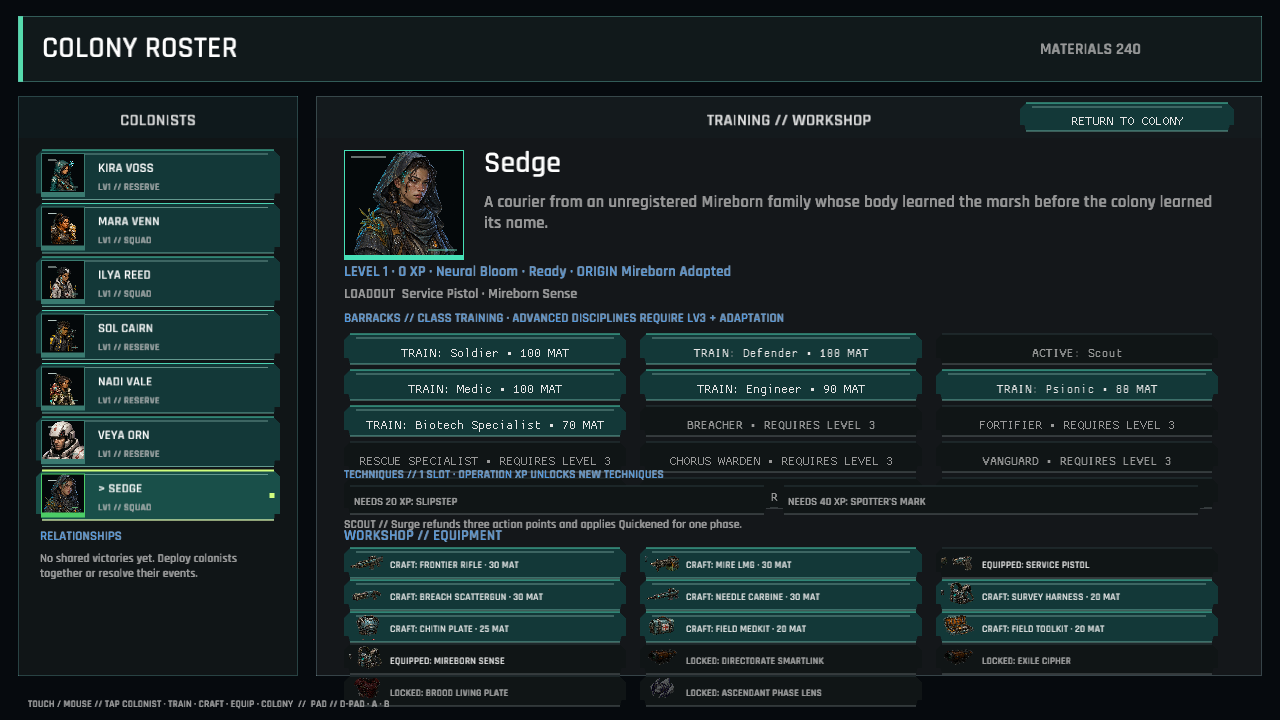
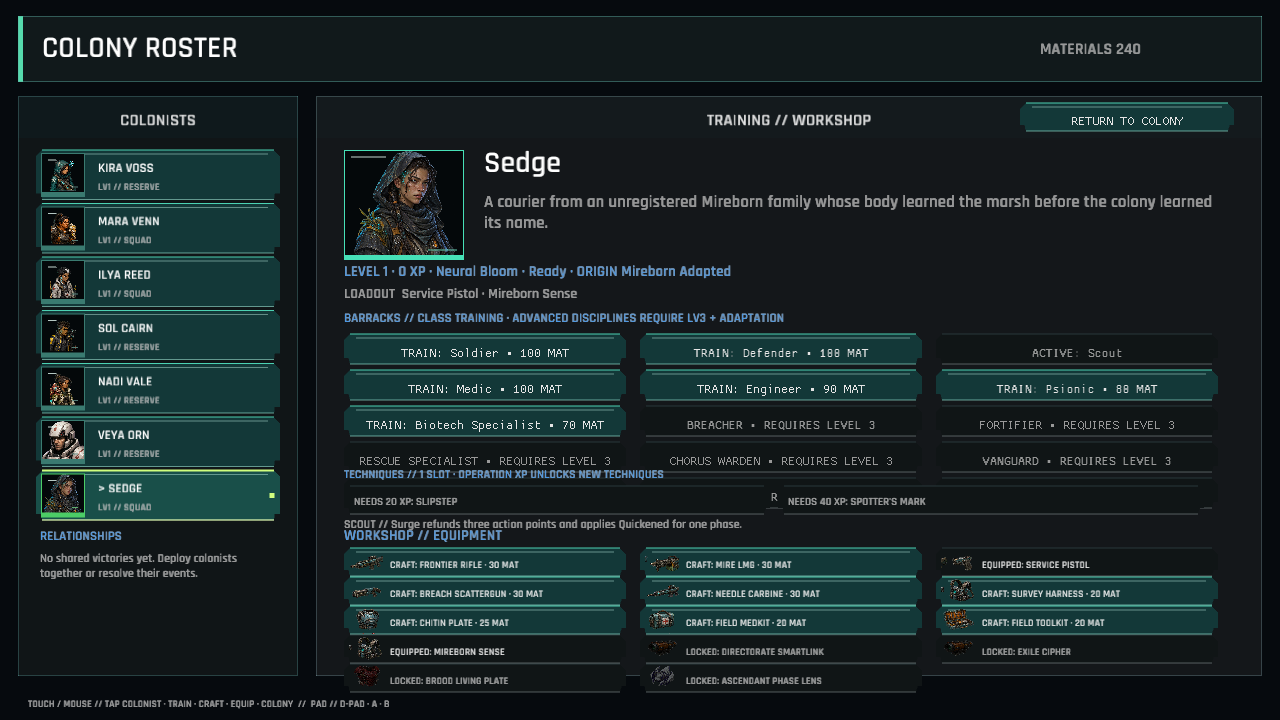
The last kit clears the lower rail (roster layout)
The complete equipment catalog placed its fifth row on the roster footer instruction baseline, clipping the lowest choices in both standard and recruited views. Centralize the equipment-row geometry, tighten the vertical rhythm, add regression coverage, refresh the two captures, and record the 1.200.0 no-schema-change checkpoint.

Changed region(s): [[0.25, 0.7944, 0.9688, 1.0]]

diff --git a/src/roster_ui.rs b/src/roster_ui.rs
@@ -88,6 +88,21 @@ fn equipment_label(
     }
 }
 
+const EQUIPMENT_ROW_START_Y: f32 = 548.0;
+const EQUIPMENT_ROW_STEP_Y: f32 = 29.0;
+const EQUIPMENT_ROW_HEIGHT: f32 = 28.0;
+
+fn equipment_row_rect(index: usize) -> Rect {
+    let column = index % 3;
+    let row = index / 3;
+    Rect::new(
+        344.0 + column as f32 * 296.0,
+        EQUIPMENT_ROW_START_Y + row as f32 * EQUIPMENT_ROW_STEP_Y,
+        282.0,
+        EQUIPMENT_ROW_HEIGHT,
+    )
+}
+
 pub(crate) fn draw_roster(
     campaign: &CampaignState,
     data: &GameData,
@@ -515,18 +530,11 @@ fn draw_selected_character(
             );
         }
     }
-    let inspected_equipment = data.equipment.iter().enumerate().find_map(|(index, item)| {
-        let column = index % 3;
-        let row = index / 3;
-        Rect::new(
-            344.0 + column as f32 * 296.0,
-            548.0 + row as f32 * 32.0,
-            282.0,
-            30.0,
-        )
-        .contains(mouse)
-        .then_some(item)
-    });
+    let inspected_equipment = data
+        .equipment
+        .iter()
+        .enumerate()
+        .find_map(|(index, item)| equipment_row_rect(index).contains(mouse).then_some(item));
     if let Some(item) = inspected_equipment {
         draw_text_block(
             &format!("{} // {}", item.name.to_uppercase(), item.description),
@@ -581,14 +589,7 @@ fn draw_selected_character(
         let has_workshop = campaign.colony.has_facility(BuildingKind::Workshop);
         let affordable = prototype_available || campaign.colony.resources.materials >= cost as i32;
         let enabled = has_workshop && unlocked && !equipped && affordable;
-        let column = index % 3;
-        let row = index / 3;
-        let rect = Rect::new(
-            344.0 + column as f32 * 296.0,
-            548.0 + row as f32 * 32.0,
-            282.0,
-            30.0,
-        );
+        let rect = equipment_row_rect(index);
         let label = equipment_label(
             unlocked,
             equipped,

diff --git a/src/roster_ui/tests.rs b/src/roster_ui/tests.rs
@@ -58,3 +58,13 @@ fn equipment_labels_name_workshop_and_material_gates() {
         "LOCKED: Exile Cipher"
     );
 }
+
+#[test]
+fn equipment_rows_clear_the_roster_footer() {
+    let first_row = equipment_row_rect(0);
+    let last_row = equipment_row_rect(13);
+
+    assert_eq!(first_row.y, 548.0);
+    assert_eq!(last_row.y, 664.0);
+    assert!(last_row.y + last_row.h < 707.0);
+}

diff --git a/docs/verification/FINAL_CAPTURE_INVENTORY.md b/docs/verification/FINAL_CAPTURE_INVENTORY.md
@@ -33,6 +33,7 @@ Manifest: `scripts/capture_ui.ps1`
 - `ui_battle_log.png` and `ui_phase_replay.png`: attack history and hostile replay beats use readable display names, name HIT/MISS outcomes with immediate damage consequences, and the battle log distinguishes ability, recovery, status, objective, and cover events with matching counts on each filter.
 - `ui_debrief.png`: the operation result keeps rewards and squad consequences visible while the notification stack names each automatic technique learned by a readable colonist name.
 - `ui_gene_lab.png` and `ui_recruited_gene_lab.png`: the mutation anatomy scan label remains visible above the separated irreversible evolution cards.
+- `ui_roster.png` and `ui_recruited_roster.png`: the complete equipment catalog clears the footer instruction baseline in both roster variants.
 - `ui_combat_feedback.png`: hit, miss, critical, damage, recovery, objective, and cover callouts remain anchored to their affected field locations and stack clear of unit effects.
 - `ui_construction.png`: placement blueprint and reserved resources remain visible at fixed building scale.
 
@@ -81,8 +82,8 @@ Manifest: `scripts/capture_ui.ps1`
[10 lines of base64/hex data omitted]

diff --git a/docs/PHASE_1_HARDENING.md b/docs/PHASE_1_HARDENING.md
@@ -31,7 +31,7 @@ Status: automated and internal verification complete; external playtests pending
 
 ## Automated verification baseline
 
-- 495 Mirexis unit tests pass, including deployment-row affordance coverage for full,
+- 497 Mirexis unit tests pass, including deployment-row affordance coverage for full,
   minimum, and recovering squads, construction availability coverage for unlocks,
   materials, and unique projects, effective repair-cost affordability coverage, and
   tactical equipment cancellation coverage, invalid-target persistence coverage, and
@@ -55,8 +55,8 @@ Status: automated and internal verification complete; external playtests pending
   debrief-return, dialogue-continue, advance-control, and briefing-deployment focus
   coverage, and campaign decision resource-gate
   label coverage, facility-upgrade blocker-label coverage, first-hour investment
-  material-gate label coverage, character-event food-gate label coverage, and Build Mode
-  construction-blocker label coverage.
+  material-gate label coverage, character-event food-gate label coverage, Build Mode
+   construction-blocker label coverage, and roster equipment-row geometry coverage.
 - External asset-registry and Rust source-size gates pass.
 - `publish.ps1` passes without parameters for Windows and WebGL and deploys to preview.
 - The canonical set contains 100 audited 1280×720 scenes, including the first-hour

diff --git a/TECHNICAL_DESIGN.md b/TECHNICAL_DESIGN.md
@@ -2,7 +2,7 @@
 
 Status: systems-rich tech demo; playable-game refinement in progress
 Current production target: cohesive first-hour playable build
-Save/content version: 1.199.0
+Save/content version: 1.200.0
 Target platforms: Windows and browser/WASM
 Runtime: Rust 2021, Macroquad, macroquad-toolkit
 
@@ -975,6 +975,7 @@ Migration coverage:
 | 1.197.0 | Tactical event summaries now title-case internal identifiers so battle history and hostile replay use readable display names; no new save fields |
 | 1.198.0 | Automatic post-operation technique learning now reports each readable colonist and technique in the debrief notification stack; no new save fields |
 | 1.199.0 | Gene Lab evolution cards now clear the portrait anatomy scan label and the return control; no new save fields |
+| 1.200.0 | Roster equipment rows now clear the footer instruction baseline across the full catalog; no new save fields |
 
 Every future schema bump must migrate the immediately previous version and add a
 fixture test. Validate saved content IDs before adding content removal or renaming.

diff --git a/docs/verification/UI_GRAPHICS_ACCEPTANCE_MATRIX.md b/docs/verification/UI_GRAPHICS_ACCEPTANCE_MATRIX.md
@@ -102,7 +102,7 @@ Each row must have a post-overhaul PNG in the final capture directory and pass t
 | power | Colony | Unpowered state lacks environmental response | `ui_power.png` | PASS |
 | construction | Colony | Construction state lacks authored staging | `ui_construction.png` | PASS |
 | research | Research | Weak technology art and hierarchy | `ui_research.png` | PASS |
-| roster | Roster | Procedural portrait and dense controls | `ui_roster.png` | PASS |
+| roster | Roster | Procedural portrait, dense controls, and the final equipment row crowding the footer | `ui_roster.png` | PASS |
 | recruited_roster | Roster | Recruited colonists fall below the visible list/relationship boundary | `ui_recruited_roster.png` | PASS |
 | recruited_gene_lab | Gene Lab | Recruited colonists fall below the visible mutation list | `ui_recruited_gene_lab.png` | PASS |
 | advanced_roster | Roster | Class change lacks silhouette transformation | `ui_advanced_roster.png` | PASS |

diff --git a/docs/PHASE_1_ACCEPTANCE_MATRIX.md b/docs/PHASE_1_ACCEPTANCE_MATRIX.md
@@ -1,7 +1,7 @@
 # Phase 1 Acceptance Matrix
 
 Status: implementation evidence audited; observed-session gates pending
-Audit baseline: save/content 1.199.0, validated and committed with this matrix
+Audit baseline: save/content 1.200.0, validated and committed with this matrix
 
 This matrix maps every Phase 1 workstream and definition-of-done requirement to
 authoritative evidence. `VERIFIED` means code, tests, captures, or an operator-run path
